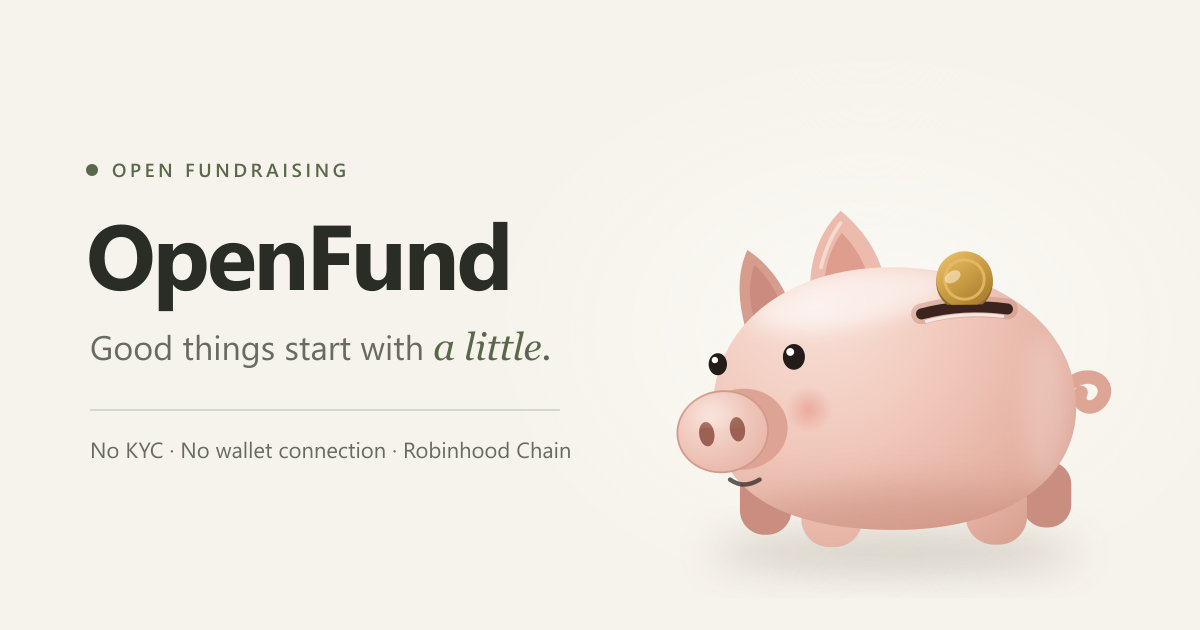
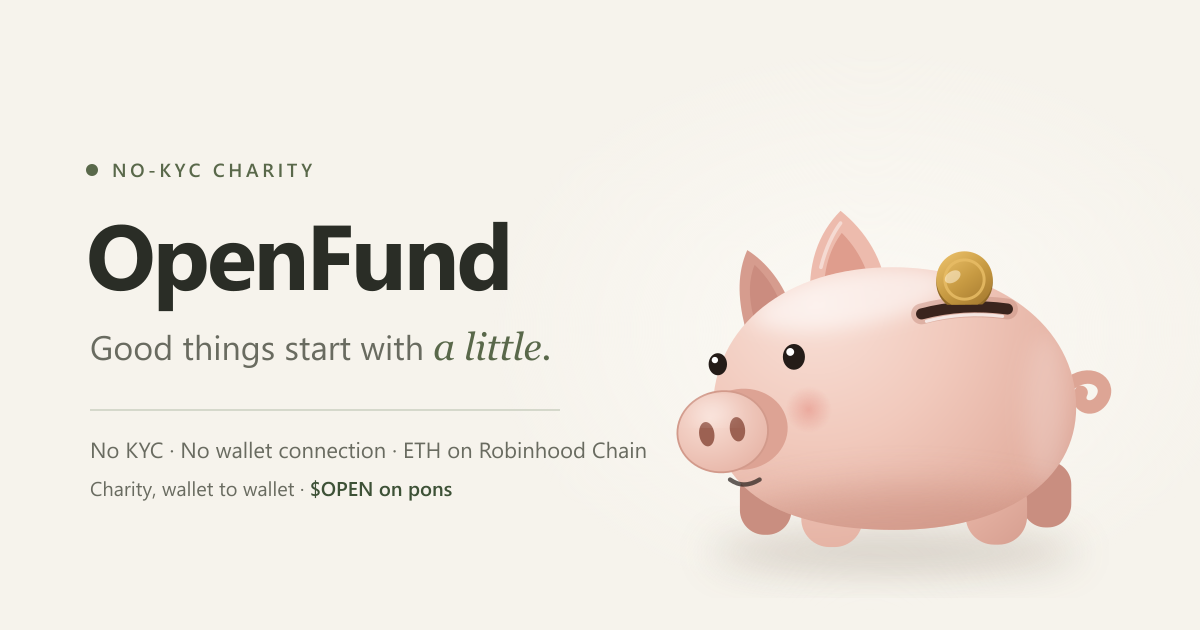
Metadata: no-KYC charity on Robinhood Chain; never ship localhost URLs
- Site title/description/share card now say what OpenFund is: no-KYC,
  no-wallet-connection charity, ETH on Robinhood Chain, $OPEN on pons.
- lib/site.ts: a localhost NEXT_PUBLIC_APP_URL is ignored in production
  builds. The live site shipped og:image=http://localhost:3000/..., so link
  previews had no image.

Changed region(s): [[0.0925, 0.2413, 0.2775, 0.3016], [0.0617, 0.754, 0.37, 0.7841], [0.3392, 0.6937, 0.555, 0.7238]]

diff --git a/silkroad/app/layout.tsx b/silkroad/app/layout.tsx
@@ -8,6 +8,7 @@ import { SmoothScroll } from "@/components/providers/SmoothScroll";
 import { WatchProvider } from "@/components/donations/WatchProvider";
 import { WatchBanner } from "@/components/donations/WatchBanner";
 import { ExternalLinkGuard } from "@/components/ExternalLinkGuard";
+import { SITE_DESCRIPTION, SITE_TAGLINE, SITE_TITLE, siteUrl } from "@/lib/site";
 
 const geistSans = Geist({
   variable: "--font-geist-sans",
@@ -19,26 +20,23 @@ const geistMono = Geist_Mono({
   subsets: ["latin"],
 });
 
-const SITE_URL = process.env.NEXT_PUBLIC_APP_URL || "https://openfund.fun";
-const DESCRIPTION =
-  "No-KYC crowdfunding on Robinhood Chain. Start a fundraiser in minutes, or give ETH straight from your own wallet — no accounts, no wallet connection.";
-
 export const metadata: Metadata = {
-  metadataBase: new URL(SITE_URL),
-  title: { default: "OpenFund — Open Fundraising", template: "%s · OpenFund" },
-  description: DESCRIPTION,
+  metadataBase: new URL(siteUrl()),
+  title: { default: SITE_TITLE, template: "%s · OpenFund" },
+  description: SITE_DESCRIPTION,
   applicationName: "OpenFund",
   openGraph: {
     type: "website",
     siteName: "OpenFund",
-    title: "OpenFund — Good things start with a little.",
-    description: DESCRIPTION,
-    images: [{ url: "/images/brand/openfund-og-1200x630.png", width: 1200, height: 630, alt: "OpenFund" }],
+    url: "/",
+    title: SITE_TITLE,
+    description: SITE_DESCRIPTION,
+    images: [{ url: "/images/brand/openfund-og-1200x630.png", width: 1200, height: 630, alt: `OpenFund — ${SITE_TAGLINE}` }],
   },
   twitter: {
     card: "summary_large_image",
-    title: "OpenFund — Good things start with a little.",
-    description: DESCRIPTION,
+    title: SITE_TITLE,
+    description: SITE_DESCRIPTION,
     images: ["/images/brand/openfund-og-1200x630.png"],
   },
 };

diff --git a/silkroad/scripts/generate-brand-media.tsx b/silkroad/scripts/generate-brand-media.tsx
@@ -81,12 +81,13 @@ function ogImage() {
   <rect width="1200" height="630" fill="${C.bg}"/>
   ${pool(870, 330, 380, 280)}
   <circle cx="92" cy="170" r="6" fill="${C.sage}"/>
-  <text x="112" y="177" font-family="Segoe UI, Arial" font-size="19" font-weight="600" letter-spacing="3.6" fill="${C.sage}">OPEN FUNDRAISING</text>
+  <text x="112" y="177" font-family="Segoe UI, Arial" font-size="19" font-weight="600" letter-spacing="3.6" fill="${C.sage}">NO-KYC CHARITY</text>
   <text x="86" y="290" font-family="Segoe UI, Arial" font-size="92" font-weight="700" letter-spacing="-3" fill="${C.ink}">OpenFund</text>
   <text x="90" y="360" font-family="Segoe UI, Arial" font-size="34" fill="${C.muted}">Good things start with
     <tspan font-family="Georgia" font-style="italic" font-size="38" fill="${C.sage}"> a little.</tspan></text>
   <line x1="90" y1="410" x2="560" y2="410" stroke="${C.rule}" stroke-width="2"/>
-  <text x="90" y="458" font-family="Segoe UI, Arial" font-size="22" fill="${C.muted}">No KYC · No wallet connection · Robinhood Chain</text>
+  <text x="90" y="458" font-family="Segoe UI, Arial" font-size="22" fill="${C.muted}">No KYC · No wallet connection · ETH on Robinhood Chain</text>
+  <text x="90" y="496" font-family="Segoe UI, Arial" font-size="20" fill="${C.muted}">Charity, wallet to wallet · <tspan fill="${C.forest}" font-weight="600">$OPEN on pons</tspan></text>
   ${pig('receiving', 600, 120, 540)}
 </svg>`;
 }

diff --git a/silkroad/lib/site.ts b/silkroad/lib/site.ts
@@ -1,0 +1,25 @@
+/**
+ * The public site URL, for link previews (og:url / og:image), the sitemap and
+ * robots.txt.
+ *
+ * NEXT_PUBLIC_APP_URL wins when it's a real address. A localhost value is
+ * ignored in production builds: a deploy built with a local .env once shipped
+ * og:image = http://localhost:3000/…, which Telegram and X can't fetch, so
+ * link previews lost their image.
+ */
+
+const PRODUCTION_URL = 'https://openfund.fun';
+
+export function siteUrl(): string {
+  const configured = process.env.NEXT_PUBLIC_APP_URL?.trim().replace(/\/+$/, '');
+  if (!configured) return PRODUCTION_URL;
+  const isLocal = /^https?:\/\/(localhost|127\.0\.0\.1|0\.0\.0\.0)(:\d+)?$/i.test(configured);
+  if (isLocal && process.env.NODE_ENV === 'production') return PRODUCTION_URL;
+  return configured;
+}
+
+/** One description used everywhere the site describes itself. */
+export const SITE_TITLE = 'OpenFund — No-KYC charity on Robinhood Chain';
+export const SITE_TAGLINE = 'Good things start with a little.';
+export const SITE_DESCRIPTION =
+  'No KYC. No wallet connection. Raise or give ETH on Robinhood Chain — every donation goes straight from the donor’s wallet to the cause. Powered by $OPEN on pons.';

diff --git a/silkroad/app/sitemap.ts b/silkroad/app/sitemap.ts
@@ -1,11 +1,12 @@
 import type { MetadataRoute } from 'next';
 import { connectDB } from '@/lib/db';
 import { Fundraiser } from '@/models/Fundraiser';
+import { siteUrl } from '@/lib/site';
 
 export const revalidate = 3600;
 
 export default async function sitemap(): Promise<MetadataRoute.Sitemap> {
-  const site = process.env.NEXT_PUBLIC_APP_URL || 'https://openfund.fun';
+  const site = siteUrl();
   const pages: MetadataRoute.Sitemap = ['', '/fundraisers', '/fundraisers/new', '/leaderboard', '/faq', '/updates'].map((path) => ({
     url: `${site}${path}`,
     changeFrequency: 'daily',

diff --git a/silkroad/app/robots.ts b/silkroad/app/robots.ts
@@ -1,7 +1,8 @@
 import type { MetadataRoute } from 'next';
+import { siteUrl } from '@/lib/site';
 
 export default function robots(): MetadataRoute.Robots {
-  const site = process.env.NEXT_PUBLIC_APP_URL || 'https://openfund.fun';
+  const site = siteUrl();
   return {
     rules: [{ userAgent: '*', allow: '/', disallow: ['/api/', '/admin', '/fundraisers/my'] }],
     sitemap: `${site}/sitemap.xml`,
